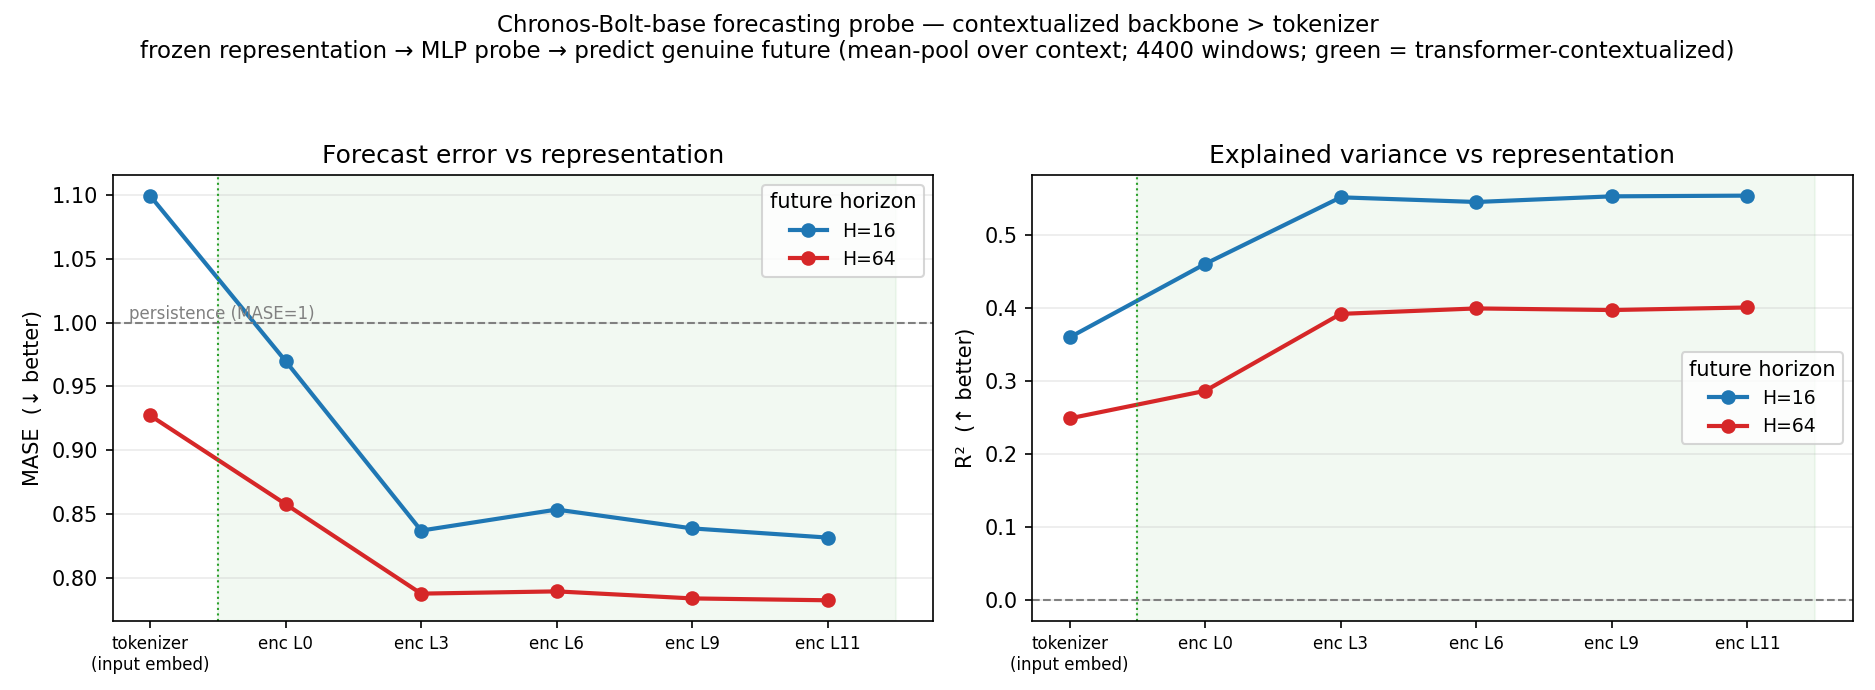
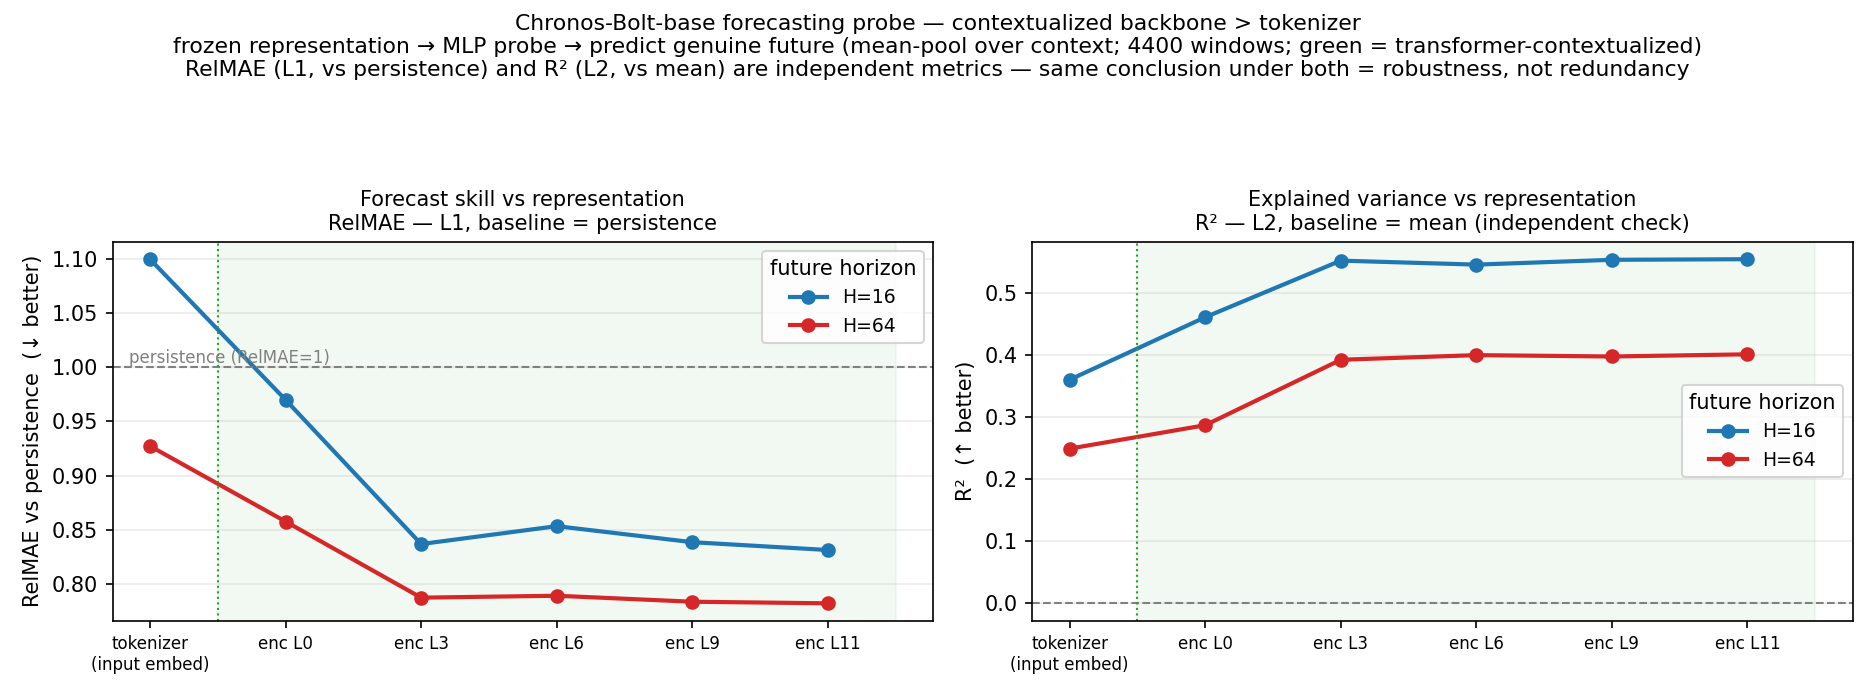
Rename forecasting probe metric MASE->RelMAE; add single-panel paper figure
The reported metric is RelMAE = MAE / persistence-MAE (same-horizon out-of-sample
skill ratio), not textbook in-sample MASE; rename throughout (relmae key added,
mase kept as legacy alias) and document the distinction. Forecasting figure now
emits two variants: a single-panel RelMAE-only paper version (R2 moved to a docs
appendix table) and the two-panel RelMAE+R2 advisor version framed as an
independent-metric robustness check.

diff --git a/scripts/plot_bolt_forecasting_probe.py b/scripts/plot_bolt_forecasting_probe.py
@@ -45,7 +45,29 @@ def load(tag: str) -> dict:
 
 
 def series(summary: dict, metric: str) -> list[float]:
+    # relmae 是诚实命名；旧 summary 只有 "mase" 别名 → 回退
+    if metric == "relmae":
+        return [summary["results"][r].get("relmae", summary["results"][r].get("mase"))
+                for r in REP_ORDER]
     return [summary["results"][r][metric] for r in REP_ORDER]
+
+
+def _style_x(ax, xs, xlabels, tok_x) -> None:
+    ax.set_xticks(xs)
+    ax.set_xticklabels(xlabels, fontsize=8)
+    ax.axvline(tok_x + 0.5, color="#2ca02c", ls=":", lw=1)
+    ax.legend(loc="best", fontsize=9, title="future horizon")
+    ax.grid(True, axis="y", alpha=0.25)
+
+
+def _draw_relmae(ax, data, xs, tok_x) -> None:
+    for tag, label, color in HORIZONS:
+        ax.plot(xs, series(data[tag], "relmae"), "-o", color=color, label=label, lw=2, ms=6)
+    ax.axhline(1.0, ls="--", color="gray", lw=1)
+    ax.text(0.02, 1.0, "persistence (RelMAE=1)", color="gray", fontsize=8, va="bottom",
+            transform=ax.get_yaxis_transform())
+    ax.axvspan(tok_x + 0.5, len(REP_ORDER) - 0.5, color="#2ca02c", alpha=0.06)
+    ax.set_ylabel("RelMAE vs persistence  (↓ better)")
 
 
 def main() -> None:
@@ -55,46 +77,52 @@ def main() -> None:
     xs = list(range(len(REP_ORDER)))
     xlabels = [REP_LABEL[r] for r in REP_ORDER]
     tok_x = REP_ORDER.index("tokenizer")
+    n = data["horizon16"]["config"]["n_examples"]
 
+    # ---------- 论文版（单面板，只 RelMAE）----------
+    figp, axp = plt.subplots(1, 1, figsize=(6.6, 4.6))
+    _draw_relmae(axp, data, xs, tok_x)
+    _style_x(axp, xs, xlabels, tok_x)
+    axp.set_title("Forecast skill vs representation depth\nRelMAE vs persistence (L1; <1 beats naive)",
+                  fontsize=10.5)
+    figp.suptitle(
+        "Chronos-Bolt-base forecasting probe — contextualized backbone > tokenizer\n"
+        f"frozen rep → MLP probe → predict genuine future (mean-pool; {n} windows)",
+        fontsize=10,
+    )
+    figp.tight_layout(rect=(0, 0, 1, 0.90))
+    out_paper = FIG_DIR / "bolt_forecasting_probe_depth_curve_paper.png"
+    figp.savefig(out_paper, dpi=150)
+    print(f"[plot] saved (paper, RelMAE only) -> {out_paper}")
+
+    # ---------- 素材版（双面板，RelMAE + R² robustness check）----------
     fig, axes = plt.subplots(1, 2, figsize=(12.5, 4.6))
+    _draw_relmae(axes[0], data, xs, tok_x)
+    axes[0].set_title("Forecast skill vs representation\nRelMAE — L1, baseline = persistence", fontsize=10)
 
-    # --- MASE panel ---
-    ax = axes[0]
-    for tag, label, color in HORIZONS:
-        ax.plot(xs, series(data[tag], "mase"), "-o", color=color, label=label, lw=2, ms=6)
-    ax.axhline(1.0, ls="--", color="gray", lw=1)
-    ax.text(0.02, 1.0, "persistence (MASE=1)", color="gray", fontsize=8, va="bottom", transform=ax.get_yaxis_transform())
-    ax.axvspan(tok_x + 0.5, len(REP_ORDER) - 0.5, color="#2ca02c", alpha=0.06)
-    ax.set_ylabel("MASE  (↓ better)")
-    ax.set_title("Forecast error vs representation")
-
-    # --- R2 panel ---
     ax = axes[1]
     for tag, label, color in HORIZONS:
         ax.plot(xs, series(data[tag], "r2"), "-o", color=color, label=label, lw=2, ms=6)
     ax.axhline(0.0, ls="--", color="gray", lw=1)
     ax.axvspan(tok_x + 0.5, len(REP_ORDER) - 0.5, color="#2ca02c", alpha=0.06)
     ax.set_ylabel("R²  (↑ better)")
-    ax.set_title("Explained variance vs representation")
+    ax.set_title("Explained variance vs representation\nR² — L2, baseline = mean (independent check)", fontsize=10)
 
     for ax in axes:
-        ax.set_xticks(xs)
-        ax.set_xticklabels(xlabels, fontsize=8)
-        ax.axvline(tok_x + 0.5, color="#2ca02c", ls=":", lw=1)
-        ax.legend(loc="best", fontsize=9, title="future horizon")
-        ax.grid(True, axis="y", alpha=0.25)
+        _style_x(ax, xs, xlabels, tok_x)
 
-    n = data["horizon16"]["config"]["n_examples"]
     fig.suptitle(
         "Chronos-Bolt-base forecasting probe — contextualized backbone > tokenizer\n"
         f"frozen representation → MLP probe → predict genuine future (mean-pool over context; "
-        f"{n} windows; green = transformer-contextualized)",
-        fontsize=11,
+        f"{n} windows; green = transformer-contextualized)\n"
+        "RelMAE (L1, vs persistence) and R² (L2, vs mean) are independent metrics — "
+        "same conclusion under both = robustness, not redundancy",
+        fontsize=10.5,
     )
-    fig.tight_layout(rect=(0, 0, 1, 0.93))
+    fig.tight_layout(rect=(0, 0, 1, 0.90))
     out = FIG_DIR / "bolt_forecasting_probe_depth_curve.png"
     fig.savefig(out, dpi=150)
-    print(f"[plot] saved -> {out}")
+    print(f"[plot] saved (advisor, RelMAE + R²) -> {out}")
 
 
 if __name__ == "__main__":

diff --git a/scripts/run_bolt_forecasting_probe.py b/scripts/run_bolt_forecasting_probe.py
@@ -207,6 +207,9 @@ def evaluate_rep(
         "alpha": float(getattr(probe, "alpha_", float("nan"))),
         "mae": mae,
         "mae_naive_persistence": mae_naive,
+        # RelMAE = MAE / persistence-MAE（同 horizon、out-of-sample skill ratio）。注意这**不是**
+        # 教科书 MASE（后者用 in-sample 1-step naive 标度）；"mase" 键仅为向后兼容的别名。
+        "relmae": float(mae / mae_naive) if mae_naive > 0 else float("nan"),
         "mase": float(mae / mae_naive) if mae_naive > 0 else float("nan"),
         "r2": float(r2_score(y_te, pred)),
         "per_macro_domain": {},
@@ -220,6 +223,7 @@ def evaluate_rep(
         result["per_macro_domain"][macro] = {
             "n_test": int(m.sum()),
             "mae": mm,
+            "relmae": float(mm / mn) if mn > 0 else float("nan"),
             "mase": float(mm / mn) if mn > 0 else float("nan"),
         }
     return result
@@ -309,7 +313,8 @@ def main() -> None:
             "test_frac": args.test_frac,
             "n_windows": int(len(full_windows)),
             "n_examples": int(len(y)),
-            "metric_note": "MASE baseline = persistence (last context value repeated)",
+            "metric_note": ("RelMAE = MAE / persistence-MAE (same horizon, out-of-sample skill "
+                            "ratio; NOT textbook in-sample MASE). 'mase' key kept as legacy alias."),
         },
         "results": results,
     }
@@ -318,10 +323,10 @@ def main() -> None:
     out_json.write_text(json.dumps(summary, indent=2, ensure_ascii=False), encoding="utf-8")
 
     print(f"\n=== Forecasting probe [{args.mode}, probe={args.probe}] (lower=better) ===")
-    print(f"{'representation':<16}{'dim':>6}{'MAE':>9}{'MASE':>9}{'R2':>8}")
+    print(f"{'representation':<16}{'dim':>6}{'MAE':>9}{'RelMAE':>9}{'R2':>8}")
     for rep in rep_order:
         r = results[rep]
-        print(f"{rep:<16}{X_by_rep[rep].shape[1]:>6}{r['mae']:>9.4f}{r['mase']:>9.4f}{r['r2']:>8.3f}")
+        print(f"{rep:<16}{X_by_rep[rep].shape[1]:>6}{r['mae']:>9.4f}{r['relmae']:>9.4f}{r['r2']:>8.3f}")
     print(f"\n[probe] saved -> {out_json}")
 
 

diff --git a/docs/13_bolt_forecasting_probe_report.md b/docs/13_bolt_forecasting_probe_report.md
@@ -30,17 +30,33 @@ Chronos-Bolt 的 `input_patch_embedding`（我们称的 "tokenizer"）只吃
 - frozen **MLP probe**（`MLPRegressor(256,128)`，early-stopping）预测**窗口之后真正的未来
   H 步**（genuine future，H∈{16, 64}）。用 MLP 而非线性 probe，是为匹配 Bolt 自身的
   非线性 forecast head（见 §5 的负例诊断）。
-- 评估：held-out 窗口（按 window 划分，避免同窗口泄漏），report **MASE**（基线 =
+- 评估：held-out 窗口（按 window 划分，避免同窗口泄漏），report **RelMAE (vs persistence)**（基线 =
   persistence，context 最后值重复）与 **R²**。锚点 `raw_last_patch` = context 最后 16 个
   归一化值（linear-AR 参照）。
 
+  **命名校正（2026-06-21）**：我们报的主指标精确名是 **RelMAE (vs persistence)** = MAE /
+  persistence-MAE（同 horizon、out-of-sample 的 skill ratio）。这**不是**教科书 MASE——后者用
+  **in-sample 1-step naive 的平均绝对差**做标度（与 horizon / 被评估预测器无关）。我们特意选
+  persistence-on-horizon 当分母，好处是 persistence 的得分**恒 = 1**，"1"成了干净可读的及格线；代价是
+  跨 horizon 的可比性弱于教科书 MASE。代码里 `relmae` 是正名，`mase` 键仅作向后兼容别名。
+
+  **RelMAE 与 R² 不是冗余，是两个相互独立的指标**——一起放当 robustness check：
+  - **RelMAE**：L1 误差，基线 = **persistence**（有结构、很强的时序 naive）。RelMAE<1 才算赢；L1 抗离群。
+  - **R²**（`sklearn.r2_score`，多输出 `uniform_average`，即逐 horizon 步算 1−SS_res/SS_tot 再
+    平均）：L2 误差，基线 = **均值**（平的常数）。衡量解释了未来方差的百分之多少。
+  - 二者基线（persistence vs mean）与损失（L1 vs L2）都不同，回答的是不同问题；**同一结论
+    （backbone > tokenizer、L3 后饱和）在两套独立标准下都成立 = 稳健**。
+
 ## 3. 主结果
 
-证据图：`outputs/figures/bolt_forecasting_probe/bolt_forecasting_probe_depth_curve.png`
+证据图（两版，`outputs/figures/bolt_forecasting_probe/`）：
+- `..._depth_curve_paper.png` —— **论文版**：单面板，只 RelMAE（正文主图，省版面）。
+- `..._depth_curve.png` —— **素材版**：双面板 RelMAE + R²（给老师看 / robustness check；R² 在论文里
+  进 appendix，见 §6 表）。
 
 **H = 16**
 
-| representation | MASE ↓ | R² ↑ |
+| representation | RelMAE ↓ | R² ↑ |
 | --- | --- | --- |
 | raw_last_patch (AR 锚点) | 0.894 | 0.493 |
 | tokenizer (input embed) | 1.100 | 0.360 |
@@ -52,7 +68,7 @@ Chronos-Bolt 的 `input_patch_embedding`（我们称的 "tokenizer"）只吃
 
 **H = 64**
 
-| representation | MASE ↓ | R² ↑ |
+| representation | RelMAE ↓ | R² ↑ |
 | --- | --- | --- |
 | raw_last_patch (AR 锚点) | 0.889 | 0.286 |
 | tokenizer (input embed) | 0.927 | 0.249 |
@@ -64,7 +80,7 @@ Chronos-Bolt 的 `input_patch_embedding`（我们称的 "tokenizer"）只吃
 
 三个结论，对应三条主线：
 
-1. **TSFM 有用（主线 1）**：backbone representation 的 MASE < 1（赢过 persistence 基线），
+1. **TSFM 有用（主线 1）**：backbone representation 的 RelMAE < 1（赢过 persistence 基线），
    并且赢过 `raw_last_patch` 这个 raw-AR 读出（H=16: R² 0.555 vs 0.493；H=64: 0.401 vs
    0.286）。即学到的表示比"原始最近值"更能预测未来。
 2. **随层 contextualized（主线 2）**：误差从 tokenizer → encoder 层显著下降，**最大跳变发生在
@@ -72,9 +88,9 @@ Chronos-Bolt 的 `input_patch_embedding`（我们称的 "tokenizer"）只吃
    plateau。深度本身带来 forecasting 价值。
 3. **backbone > tokenizer**：两个 horizon、**每个 macro domain** 下，encoder 层都赢 tokenizer
    （H=16 per-domain：layer_11 在 Energy/Environment/Finance/Health/Traffic/Synthetic
-   全面低于 tokenizer 的 MASE）。
+   全面低于 tokenizer 的 RelMAE）。
 
-一个值得点出的细节：H=16 时 **tokenizer 反而比 raw_last_patch 差**（MASE 1.10 vs 0.89）。
+一个值得点出的细节：H=16 时 **tokenizer 反而比 raw_last_patch 差**（RelMAE 1.10 vs 0.89）。
 tokenizer 是对每个 patch 的有损非线性 embedding、再 mean-pool，丢掉了 raw 保留的精确最近值；
 **只有经过 attention（encoder）后，表示才恢复并反超**。这本身就是"contextualization 才是
 usefulness 来源"的直接证据。
@@ -117,3 +133,20 @@ usefulness 来源"的直接证据。
   设定下 backbone 都碾压"。
 - 可选的黄金标准补充：用 Bolt 真实 `predict()` 的 forecasting metric（WQL/MASE）对比"完整
   模型 vs 绕过 encoder"，更贴近"TSFM 有用"的端到端叙事（本轮未做）。
+
+## 7. Appendix：R²（L2 / mean 基线 robustness check）
+
+论文正文主图只放 RelMAE 单面板（省版面）；R² 作为独立指标（L2 损失 + mean 基线）放这里当 robustness
+check——结论与 RelMAE 完全一致（backbone > tokenizer，layer_0→layer_3 大跳变后 plateau）。
+
+| representation | R² (H=16) | R² (H=64) |
+| --- | --- | --- |
+| tokenizer (input embed) | 0.360 | 0.249 |
+| enc layer_0 | 0.461 | 0.287 |
+| enc layer_3 | 0.552 | 0.392 |
+| enc layer_6 | 0.546 | 0.400 |
+| enc layer_9 | 0.554 | 0.398 |
+| **enc layer_11** | **0.555** | **0.401** |
+
+R² = `sklearn.r2_score`（多输出 `uniform_average`）。素材版双面板图 `..._depth_curve.png` 同时画了
+RelMAE 与 R²，供汇报时展示"两套独立标准同结论"。